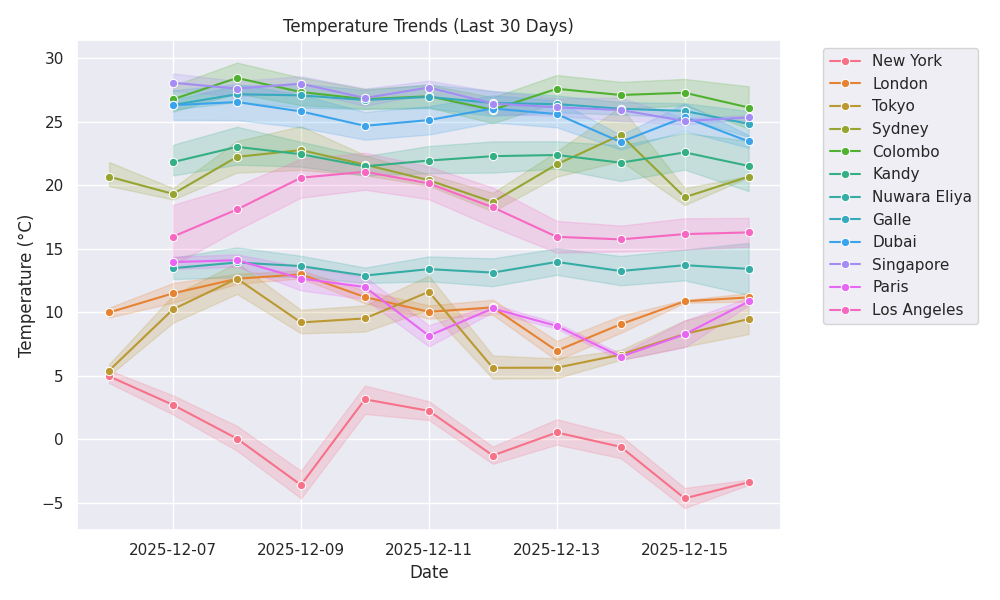
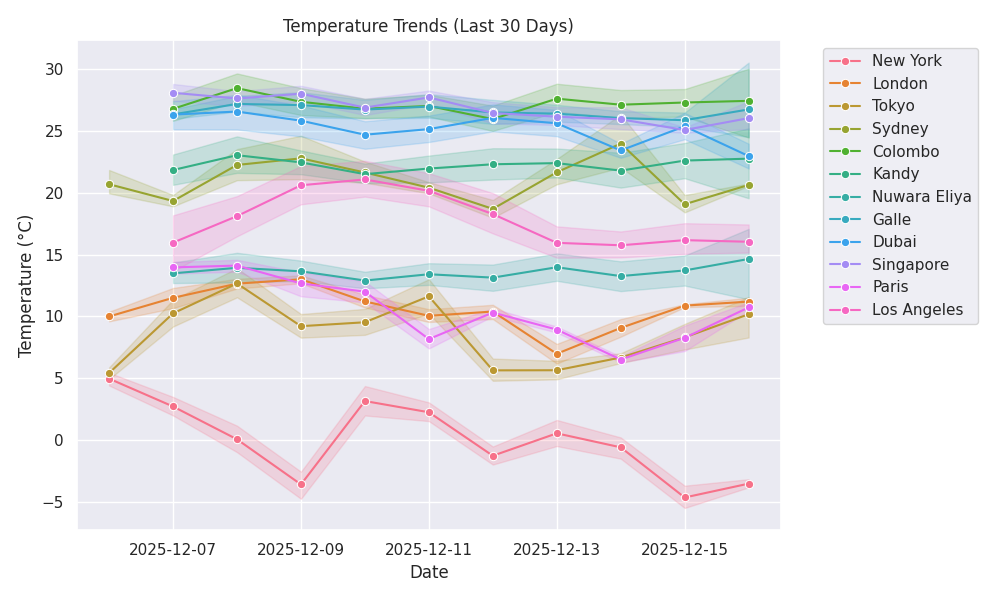
🌦 Weather update: 2025-12-16 04:29

diff --git a/public/index.html b/public/index.html
@@ -11,7 +11,7 @@
     <div class="max-w-6xl mx-auto">
         <header class="mb-8 text-center">
             <h1 class="text-4xl font-bold mb-2">🌍 Global Weather Dashboard</h1>
-            <p class="text-slate-400">Last Updated: 2025-12-16 03:18:30</p>
+            <p class="text-slate-400">Last Updated: 2025-12-16 04:29:53</p>
         </header>
         
         <!-- AI Summary -->
@@ -29,12 +29,12 @@
                     <span class="text-3xl">☀</span>
                 </div>
                 <div class="mt-4">
-                    <p class="text-4xl font-bold">10.56°C</p>
+                    <p class="text-4xl font-bold">10.45°C</p>
                     <p class="text-slate-400 capitalize">clear sky</p>
                 </div>
                 <div class="mt-4 text-sm text-slate-500">
-                    <p>💧 Humidity: 85%</p>
-                    <p>💨 Wind: 3.09 m/s</p>
+                    <p>💧 Humidity: 88%</p>
+                    <p>💨 Wind: 2.57 m/s</p>
                 </div>
             </div>
             
@@ -44,11 +44,11 @@
                     <span class="text-3xl">☁</span>
                 </div>
                 <div class="mt-4">
-                    <p class="text-4xl font-bold">11.51°C</p>
+                    <p class="text-4xl font-bold">11.21°C</p>
                     <p class="text-slate-400 capitalize">broken clouds</p>
                 </div>
                 <div class="mt-4 text-sm text-slate-500">
-                    <p>💧 Humidity: 88%</p>
+                    <p>💧 Humidity: 89%</p>
                     <p>💨 Wind: 2.57 m/s</p>
                 </div>
             </div>
@@ -59,12 +59,12 @@
                     <span class="text-3xl">☁</span>
                 </div>
                 <div class="mt-4">
-                    <p class="text-4xl font-bold">20.74°C</p>
+                    <p class="text-4xl font-bold">20.51°C</p>
                     <p class="text-slate-400 capitalize">broken clouds</p>
                 </div>
                 <div class="mt-4 text-sm text-slate-500">
-                    <p>💧 Humidity: 66%</p>
-                    <p>💨 Wind: 5.14 m/s</p>
+                    <p>💧 Humidity: 69%</p>
+                    <p>💨 Wind: 4.12 m/s</p>
                 </div>
             </div>
             
@@ -74,12 +74,12 @@
                     <span class="text-3xl">☁</span>
                 </div>
                 <div class="mt-4">
-                    <p class="text-4xl font-bold">25.54°C</p>
+                    <p class="text-4xl font-bold">27.4°C</p>
                     <p class="text-slate-400 capitalize">broken clouds</p>
                 </div>
                 <div class="mt-4 text-sm text-slate-500">
-                    <p>💧 Humidity: 95%</p>
-                    <p>💨 Wind: 3.6 m/s</p>
+                    <p>💧 Humidity: 89%</p>
+                    <p>💨 Wind: 2.57 m/s</p>
                 </div>
             </div>
             
@@ -89,12 +89,12 @@
                     <span class="text-3xl">☀</span>
                 </div>
                 <div class="mt-4">
-                    <p class="text-4xl font-bold">22.96°C</p>
+                    <p class="text-4xl font-bold">21.96°C</p>
                     <p class="text-slate-400 capitalize">clear sky</p>
                 </div>
                 <div class="mt-4 text-sm text-slate-500">
-                    <p>💧 Humidity: 53%</p>
-                    <p>💨 Wind: 5.66 m/s</p>
+                    <p>💧 Humidity: 60%</p>
+                    <p>💨 Wind: 5.14 m/s</p>
                 </div>
             </div>
             
@@ -104,12 +104,12 @@
                     <span class="text-3xl">☁</span>
                 </div>
                 <div class="mt-4">
-                    <p class="text-4xl font-bold">25.86°C</p>
+                    <p class="text-4xl font-bold">30.52°C</p>
                     <p class="text-slate-400 capitalize">overcast clouds</p>
                 </div>
                 <div class="mt-4 text-sm text-slate-500">
-                    <p>💧 Humidity: 81%</p>
-                    <p>💨 Wind: 1.72 m/s</p>
+                    <p>💧 Humidity: 75%</p>
+                    <p>💨 Wind: 0.45 m/s</p>
                 </div>
             </div>
             
@@ -119,12 +119,12 @@
                     <span class="text-3xl">☁</span>
                 </div>
                 <div class="mt-4">
-                    <p class="text-4xl font-bold">15.47°C</p>
-                    <p class="text-slate-400 capitalize">overcast clouds</p>
+                    <p class="text-4xl font-bold">17.07°C</p>
+                    <p class="text-slate-400 capitalize">broken clouds</p>
                 </div>
                 <div class="mt-4 text-sm text-slate-500">
-                    <p>💧 Humidity: 82%</p>
-                    <p>💨 Wind: 1.8 m/s</p>
+                    <p>💧 Humidity: 76%</p>
+                    <p>💨 Wind: 2.18 m/s</p>
                 </div>
             </div>
             
@@ -134,12 +134,12 @@
                     <span class="text-3xl">☁</span>
                 </div>
                 <div class="mt-4">
-                    <p class="text-4xl font-bold">23.51°C</p>
-                    <p class="text-slate-400 capitalize">overcast clouds</p>
+                    <p class="text-4xl font-bold">25.2°C</p>
+                    <p class="text-slate-400 capitalize">broken clouds</p>
                 </div>
                 <div class="mt-4 text-sm text-slate-500">
-                    <p>💧 Humidity: 83%</p>
-                    <p>💨 Wind: 1.51 m/s</p>
+                    <p>💧 Humidity: 77%</p>
+                    <p>💨 Wind: 1.89 m/s</p>
                 </div>
             </div>
             
@@ -149,12 +149,12 @@
                     <span class="text-3xl">☁</span>
                 </div>
                 <div class="mt-4">
-                    <p class="text-4xl font-bold">27.8°C</p>
+                    <p class="text-4xl font-bold">30.02°C</p>
                     <p class="text-slate-400 capitalize">overcast clouds</p>
                 </div>
                 <div class="mt-4 text-sm text-slate-500">
-                    <p>💧 Humidity: 76%</p>
-                    <p>💨 Wind: 5.31 m/s</p>
+                    <p>💧 Humidity: 67%</p>
+                    <p>💨 Wind: 3.86 m/s</p>
                 </div>
             </div>
             
@@ -164,11 +164,11 @@
                     <span class="text-3xl">☁</span>
                 </div>
                 <div class="mt-4">
-                    <p class="text-4xl font-bold">-3.59°C</p>
+                    <p class="text-4xl font-bold">-3.83°C</p>
                     <p class="text-slate-400 capitalize">overcast clouds</p>
                 </div>
                 <div class="mt-4 text-sm text-slate-500">
-                    <p>💧 Humidity: 65%</p>
+                    <p>💧 Humidity: 67%</p>
                     <p>💨 Wind: 5.66 m/s</p>
                 </div>
             </div>
@@ -179,12 +179,12 @@
                     <span class="text-3xl">☁</span>
                 </div>
                 <div class="mt-4">
-                    <p class="text-4xl font-bold">10.66°C</p>
-                    <p class="text-slate-400 capitalize">few clouds</p>
+                    <p class="text-4xl font-bold">11.56°C</p>
+                    <p class="text-slate-400 capitalize">broken clouds</p>
                 </div>
                 <div class="mt-4 text-sm text-slate-500">
-                    <p>💧 Humidity: 37%</p>
-                    <p>💨 Wind: 2.57 m/s</p>
+                    <p>💧 Humidity: 38%</p>
+                    <p>💨 Wind: 2.06 m/s</p>
                 </div>
             </div>
             
@@ -194,11 +194,11 @@
                     <span class="text-3xl">☀</span>
                 </div>
                 <div class="mt-4">
-                    <p class="text-4xl font-bold">15.16°C</p>
+                    <p class="text-4xl font-bold">15.5°C</p>
                     <p class="text-slate-400 capitalize">clear sky</p>
                 </div>
                 <div class="mt-4 text-sm text-slate-500">
-                    <p>💧 Humidity: 89%</p>
+                    <p>💧 Humidity: 84%</p>
                     <p>💨 Wind: 1.54 m/s</p>
                 </div>
             </div>

diff --git a/README.md b/README.md
@@ -8,8 +8,8 @@
 
 ---
 
-## ⚡ Live Status (Updated: 2025-12-16 03:18 UTC)
-![Paris](https://img.shields.io/badge/Paris-10.56°C-blue) ![London](https://img.shields.io/badge/London-11.51°C-blue) ![Sydney](https://img.shields.io/badge/Sydney-20.74°C-green) ![Singapore](https://img.shields.io/badge/Singapore-25.54°C-orange) ![Dubai](https://img.shields.io/badge/Dubai-22.96°C-green) ![Galle](https://img.shields.io/badge/Galle-25.86°C-orange) ![Nuwara Eliya](https://img.shields.io/badge/Nuwara%20Eliya-15.47°C-green) ![Kandy](https://img.shields.io/badge/Kandy-23.51°C-green) ![Colombo](https://img.shields.io/badge/Colombo-27.8°C-orange) ![New York](https://img.shields.io/badge/New%20York--3.59°C-blue) ![Tokyo](https://img.shields.io/badge/Tokyo-10.66°C-blue) ![Los Angeles](https://img.shields.io/badge/Los%20Angeles-15.16°C-green) 
+## ⚡ Live Status (Updated: 2025-12-16 04:29 UTC)
+![Paris](https://img.shields.io/badge/Paris-10.45°C-blue) ![London](https://img.shields.io/badge/London-11.21°C-blue) ![Sydney](https://img.shields.io/badge/Sydney-20.51°C-green) ![Singapore](https://img.shields.io/badge/Singapore-27.4°C-orange) ![Dubai](https://img.shields.io/badge/Dubai-21.96°C-green) ![Galle](https://img.shields.io/badge/Galle-30.52°C-red) ![Nuwara Eliya](https://img.shields.io/badge/Nuwara%20Eliya-17.07°C-green) ![Kandy](https://img.shields.io/badge/Kandy-25.2°C-orange) ![Colombo](https://img.shields.io/badge/Colombo-30.02°C-red) ![New York](https://img.shields.io/badge/New%20York--3.83°C-blue) ![Tokyo](https://img.shields.io/badge/Tokyo-11.56°C-blue) ![Los Angeles](https://img.shields.io/badge/Los%20Angeles-15.5°C-green) 
 
 <div align="center">
   <h3>🏆 Weather Records (Live)</h3>
@@ -19,8 +19,8 @@
         <td align="center">❄ <b>Coldest City</b></td>
     </tr>
     <tr>
-        <td align="center"><b>Colombo</b><br>27.8°C</td>
-        <td align="center"><b>New York</b><br>-3.59°C</td>
+        <td align="center"><b>Galle</b><br>30.52°C</td>
+        <td align="center"><b>New York</b><br>-3.83°C</td>
     </tr>
   </table>
 </div>
@@ -28,18 +28,18 @@
 ## 📊 Global Overview
 | 🌍 City | 🌡 Temp | 🌤 Condition | 💧 Humidity | 🌬 Wind |
 |---|---|---|---|---|
-| **Paris** | 10.56°C | clear sky | 🟦🟦🟦🟦⬜ 85% | 3.09 m/s |
-| **London** | 11.51°C | broken clouds | 🟦🟦🟦🟦⬜ 88% | 2.57 m/s |
-| **Sydney** | 20.74°C | broken clouds | 🟦🟦🟦⬜⬜ 66% | 5.14 m/s |
-| **Singapore** | 25.54°C | broken clouds | 🟦🟦🟦🟦⬜ 95% | 3.6 m/s |
-| **Dubai** | 22.96°C | clear sky | 🟦🟦⬜⬜⬜ 53% | 5.66 m/s |
-| **Galle** | 25.86°C | overcast clouds | 🟦🟦🟦🟦⬜ 81% | 1.72 m/s |
-| **Nuwara Eliya** | 15.47°C | overcast clouds | 🟦🟦🟦🟦⬜ 82% | 1.8 m/s |
-| **Kandy** | 23.51°C | overcast clouds | 🟦🟦🟦🟦⬜ 83% | 1.51 m/s |
-| **Colombo** | 27.8°C | overcast clouds | 🟦🟦🟦⬜⬜ 76% | 5.31 m/s |
-| **New York** | -3.59°C | overcast clouds | 🟦🟦🟦⬜⬜ 65% | 5.66 m/s |
-| **Tokyo** | 10.66°C | few clouds | 🟦⬜⬜⬜⬜ 37% | 2.57 m/s |
-| **Los Angeles** | 15.16°C | clear sky | 🟦🟦🟦🟦⬜ 89% | 1.54 m/s |
+| **Paris** | 10.45°C | clear sky | 🟦🟦🟦🟦⬜ 88% | 2.57 m/s |
+| **London** | 11.21°C | broken clouds | 🟦🟦🟦🟦⬜ 89% | 2.57 m/s |
+| **Sydney** | 20.51°C | broken clouds | 🟦🟦🟦⬜⬜ 69% | 4.12 m/s |
+| **Singapore** | 27.4°C | broken clouds | 🟦🟦🟦🟦⬜ 89% | 2.57 m/s |
+| **Dubai** | 21.96°C | clear sky | 🟦🟦🟦⬜⬜ 60% | 5.14 m/s |
+| **Galle** | 30.52°C | overcast clouds | 🟦🟦🟦⬜⬜ 75% | 0.45 m/s |
+| **Nuwara Eliya** | 17.07°C | broken clouds | 🟦🟦🟦⬜⬜ 76% | 2.18 m/s |
+| **Kandy** | 25.2°C | broken clouds | 🟦🟦🟦⬜⬜ 77% | 1.89 m/s |
+| **Colombo** | 30.02°C | overcast clouds | 🟦🟦🟦⬜⬜ 67% | 3.86 m/s |
+| **New York** | -3.83°C | overcast clouds | 🟦🟦🟦⬜⬜ 67% | 5.66 m/s |
+| **Tokyo** | 11.56°C | broken clouds | 🟦⬜⬜⬜⬜ 38% | 2.06 m/s |
+| **Los Angeles** | 15.5°C | clear sky | 🟦🟦🟦🟦⬜ 84% | 1.54 m/s |
 
 
 ## 📈 Temperature Trends
